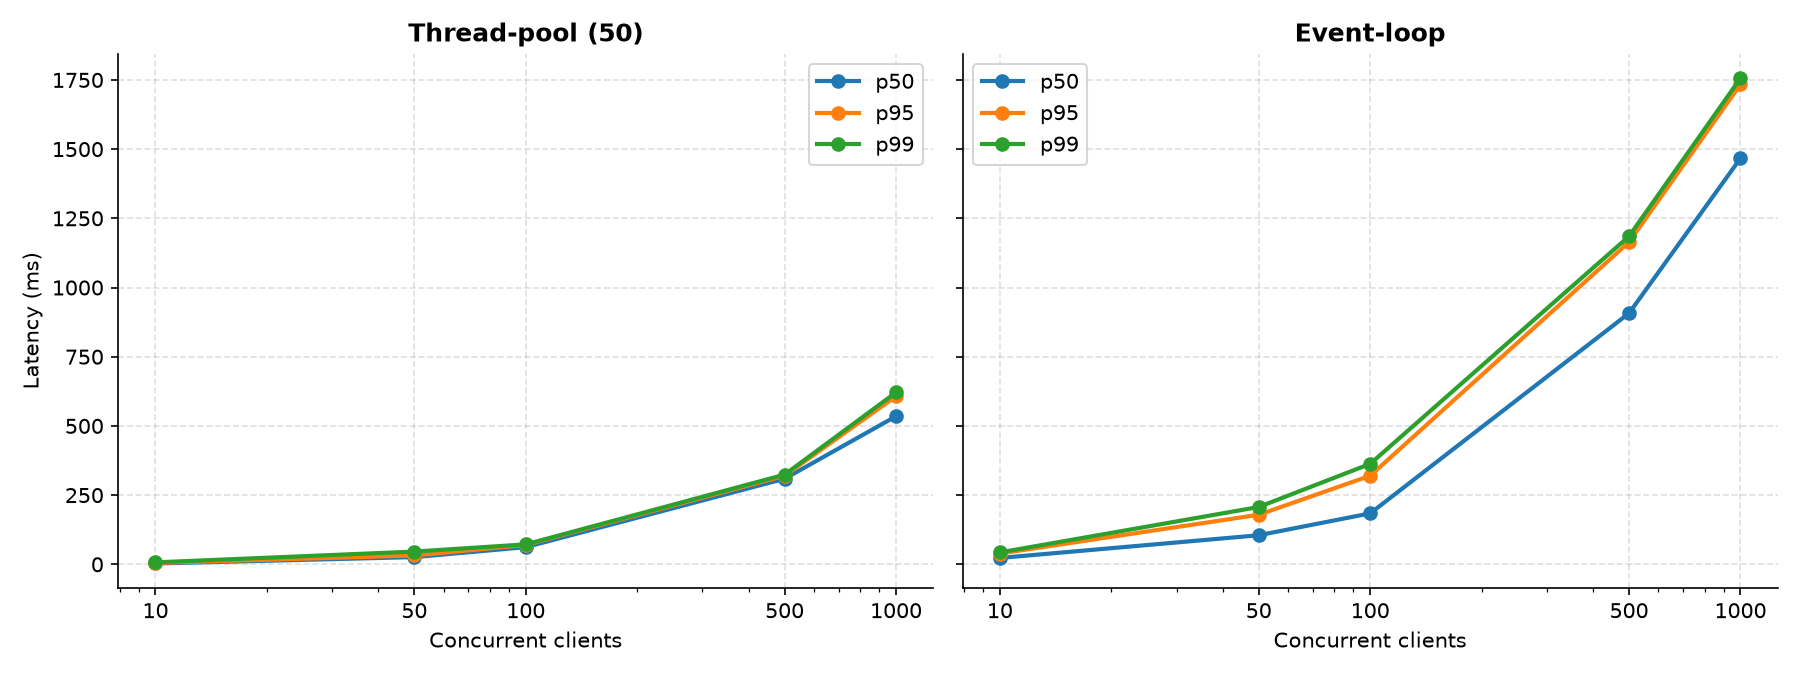
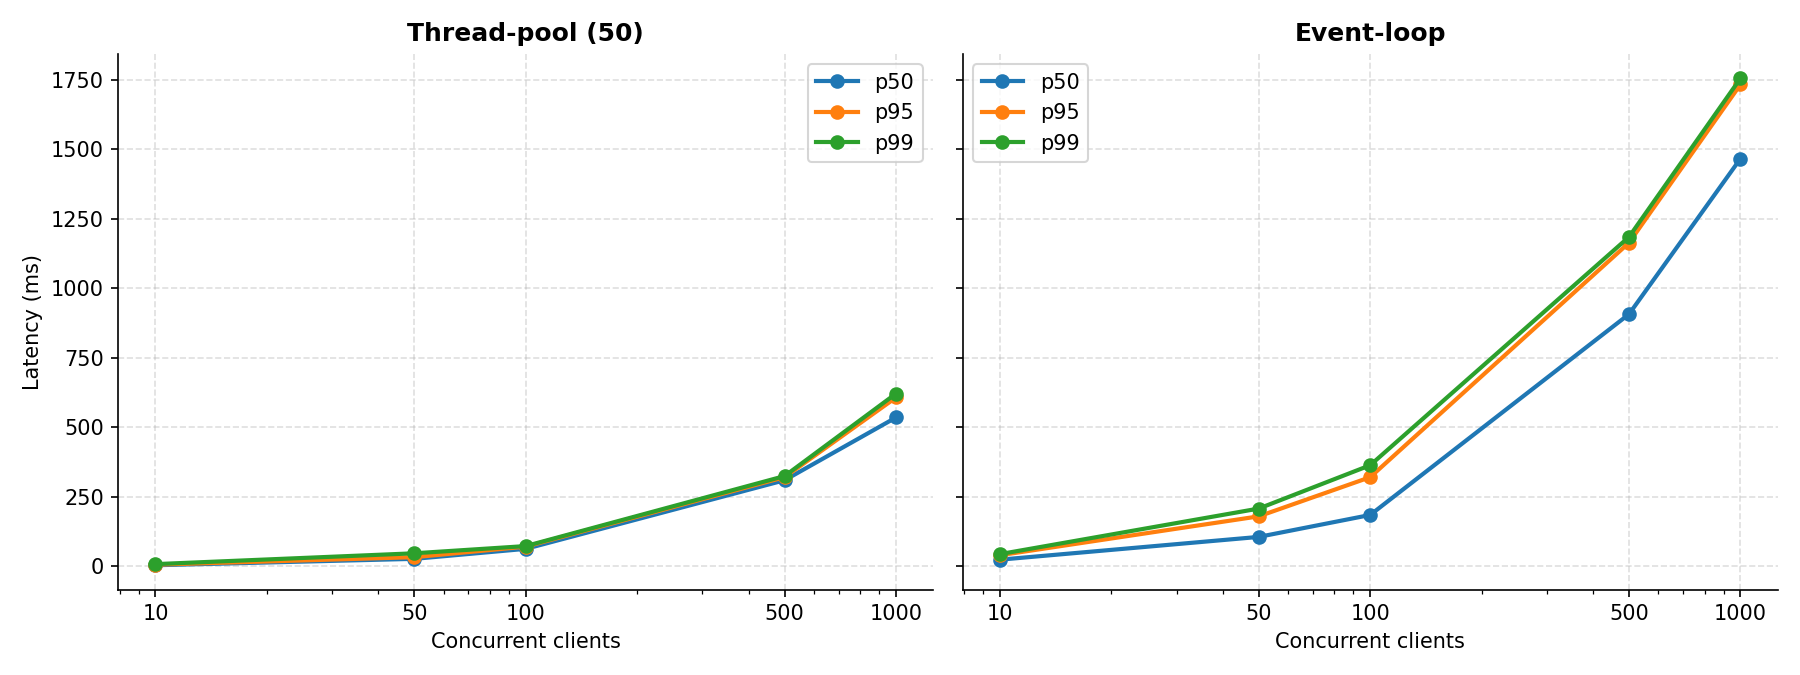
Added plots

diff --git a/scripts/plot_cache.py b/scripts/plot_cache.py
@@ -1,39 +1,80 @@
 from pathlib import Path
-import pandas as pd
+
 import matplotlib.pyplot as plt
+import pandas as pd
 
-results = pd.read_csv("results/cache_hitratio.csv")
 
-means = results.groupby("mode")[["hit_ratio", "avg_ms"]].mean()
-means = means.reindex(["no_cache", "cached"])
+output_dir = Path("results/plots")
+output_dir.mkdir(parents=True, exist_ok=True)
 
-baseline = means.loc["no_cache", "avg_ms"]
-saving = 100 * (baseline - means.loc["cached", "avg_ms"]) / baseline
+pool50 = pd.read_csv("results/threadpool_rps.csv")
+pool20 = pd.read_csv("results/threadpool_rps_pool20.csv")
+eventloop = pd.read_csv("results/eventloop_latency.csv")
 
-fig, axes = plt.subplots(1, 2, figsize=(10, 4))
-
-labels = ["No cache", "LRU cache"]
-colors = ["#94a3b8", "#2563eb"]
-
-bars = axes[0].bar(labels, means["hit_ratio"] * 100, color=colors)
-axes[0].bar_label(bars, fmt="%.1f%%", padding=4)
-axes[0].set_ylabel("Cache hit ratio (%)")
-axes[0].set_ylim(0, 110)
-
-bars = axes[1].bar(labels, means["avg_ms"], color=colors)
-axes[1].bar_label(bars, fmt="%.3f", padding=4)
-axes[1].set_ylabel("Mean response latency (ms)")
-axes[1].set_ylim(0, means["avg_ms"].max() * 1.2)
-
-fig.suptitle(
-    f"Skewed workload: {saving:.1f}% lower mean latency with caching"
+series = (
+    (pool50, "Thread pool (50)", "#2563eb", "o", "-"),
+    (pool20, "Thread pool (20)", "#7c3aed", "s", "--"),
+    (eventloop, "Event loop", "#dc2626", "^", "-"),
 )
 
+ticks = [10, 50, 100, 500, 1000]
+
+
+def save_comparison(column, ylabel, title, filename):
+    fig, ax = plt.subplots(figsize=(9, 5))
+
+    for data, label, color, marker, linestyle in series:
+        ax.plot(data["concurrency"], data[column], marker=marker,
+                linestyle=linestyle, linewidth=2, color=color, label=label)
+
+    ax.set_xscale("log")
+    ax.set_xticks(ticks, labels=[str(value) for value in ticks])
+    ax.set_xlabel("Concurrent clients")
+    ax.set_ylabel(ylabel)
+    ax.set_title(title)
+    ax.grid(alpha=0.3)
+    ax.legend()
+    fig.tight_layout()
+
+    path = output_dir / filename
+    fig.savefig(path, dpi=180)
+    plt.close(fig)
+    print(f"Saved {path}")
+
+
+save_comparison("requests_per_sec", "Requests per second",
+                "Throughput vs concurrency", "rps_vs_concurrency.png")
+save_comparison("p50_ms", "p50 latency (ms)",
+                "Median latency vs concurrency", "p50_comparison.png")
+save_comparison("p95_ms", "p95 latency (ms)",
+                "p95 latency vs concurrency", "p95_comparison.png")
+save_comparison("p99_ms", "p99 latency (ms)",
+                "p99 latency vs concurrency", "p99_comparison.png")
+
+fig, axes = plt.subplots(1, 2, figsize=(12, 5), sharey=True)
+percentiles = (
+    ("p50_ms", "p50", "#2563eb"),
+    ("p95_ms", "p95", "#ea580c"),
+    ("p99_ms", "p99", "#16a34a"),
+)
+
+for ax, (data, workers) in zip(axes, ((pool20, 20), (pool50, 50))):
+    for column, label, color in percentiles:
+        ax.plot(data["concurrency"], data[column], marker="o",
+                linewidth=2, color=color, label=label)
+
+    ax.set_xscale("log")
+    ax.set_xticks(ticks, labels=[str(value) for value in ticks])
+    ax.set_title(f"{workers} workers")
+    ax.set_xlabel("Concurrent clients")
+    ax.grid(alpha=0.3)
+    ax.legend()
+
+axes[0].set_ylabel("Latency of successful requests (ms)")
+fig.suptitle("Thread pool latency percentiles: 20 vs 50 workers")
 fig.tight_layout()
 
-Path("results/plots").mkdir(parents=True, exist_ok=True)
-fig.savefig("results/plots/cache.png", dpi=180)
+path = output_dir / "threadpool_20_vs_50_latency.png"
+fig.savefig(path, dpi=180)
 plt.close(fig)
-
-print(f"Latency saving: {saving:.2f}%")
-print("Saved results/plots/cache.png")
+print(f"Saved {path}")
